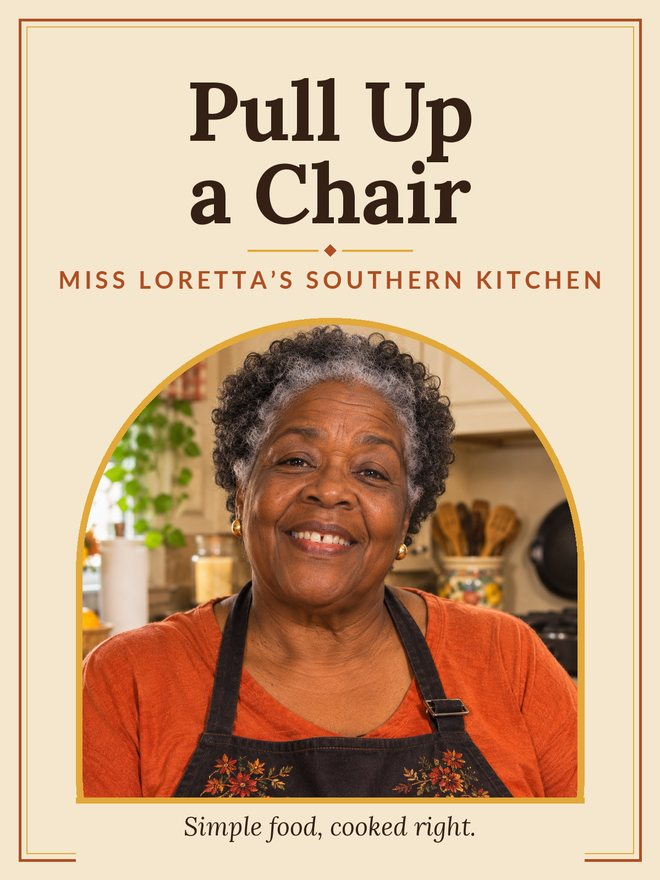
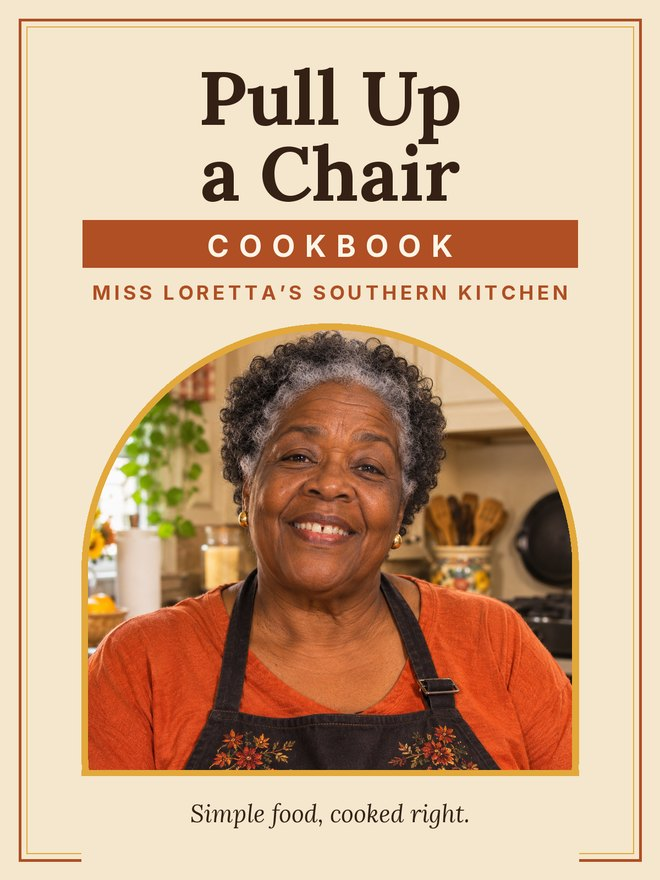
Put COOKBOOK on the cover image
Claude-Session: https://claude.ai/code/session_01D9aSsddcutWvqqg2mU92KQ

Changed region(s): [[0.0909, 0.0614, 0.9091, 0.9511]]

diff --git a/ep2/index.html b/ep2/index.html
@@ -100,7 +100,7 @@ const PRICE   = "$19.99";      // e.g. "$9"
 
 <header class="hero">
   <div class="wrap">
-    <img class="book" src="img/cover.jpg" width="660" height="880" alt="Cookbook cover: Pull Up a Chair, Miss Loretta's Southern Kitchen">
+    <img class="book" src="img/cover.jpg?v=2" width="660" height="880" alt="Cookbook cover: Pull Up a Chair Cookbook, Miss Loretta's Southern Kitchen">
     <div>
       <p class="eyebrow">Miss Loretta’s cookbook</p>
       <h1>Pull Up a Chair <span class="h1b">Cookbook</span></h1>

diff --git a/yt/index.html b/yt/index.html
@@ -100,7 +100,7 @@ const PRICE   = "$19.99";      // e.g. "$9"
 
 <header class="hero">
   <div class="wrap">
-    <img class="book" src="img/cover.jpg" width="660" height="880" alt="Cookbook cover: Pull Up a Chair, Miss Loretta's Southern Kitchen">
+    <img class="book" src="img/cover.jpg?v=2" width="660" height="880" alt="Cookbook cover: Pull Up a Chair Cookbook, Miss Loretta's Southern Kitchen">
     <div>
       <p class="eyebrow">Miss Loretta’s cookbook</p>
       <h1>Pull Up a Chair <span class="h1b">Cookbook</span></h1>

diff --git a/index.html b/index.html
@@ -98,7 +98,7 @@ const PRICE   = "$19.99";      // e.g. "$9"
 
 <header class="hero">
   <div class="wrap">
-    <img class="book" src="img/cover.jpg" width="660" height="880" alt="Cookbook cover: Pull Up a Chair, Miss Loretta's Southern Kitchen">
+    <img class="book" src="img/cover.jpg?v=2" width="660" height="880" alt="Cookbook cover: Pull Up a Chair Cookbook, Miss Loretta's Southern Kitchen">
     <div>
       <p class="eyebrow">Miss Loretta’s cookbook</p>
       <h1>Pull Up a Chair <span class="h1b">Cookbook</span></h1>
